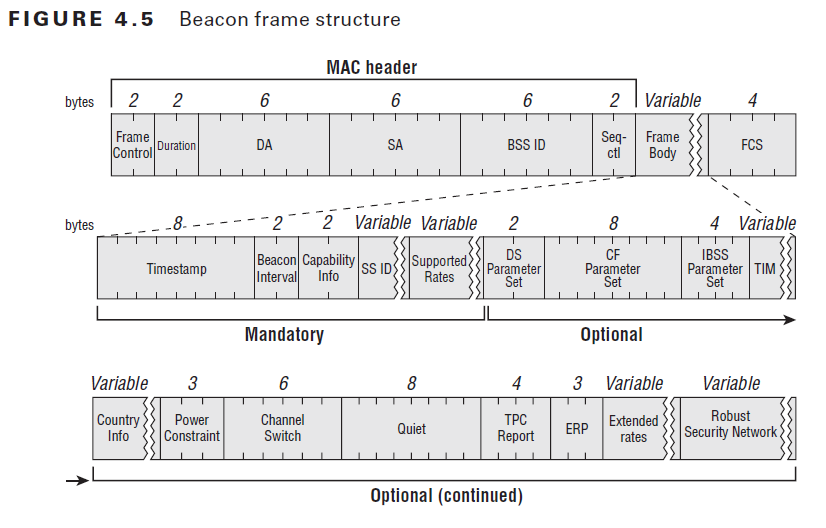
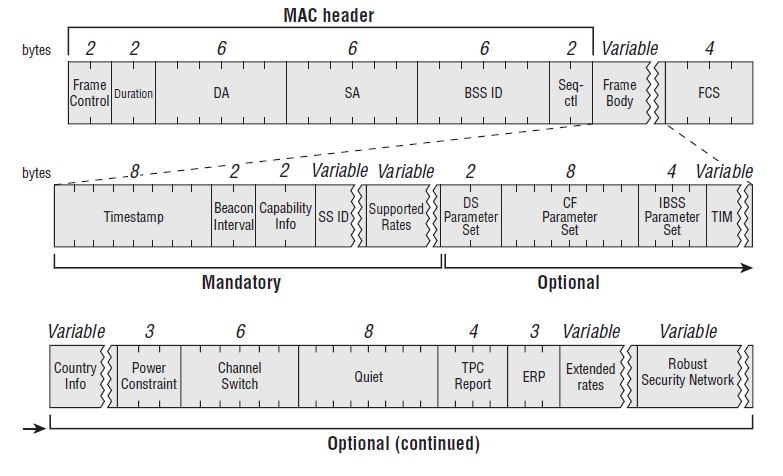
minor report edits

Changed region(s): [[0.0, 0.0, 0.9808, 0.6471], [0.0307, 0.6765, 0.9808, 0.9706], [0.0307, 0.3529, 0.0613, 0.3824]]

diff --git a/report/background.tex b/report/background.tex
@@ -91,7 +91,7 @@ As the types of signals to be sensed are split into non-cooperative and cooperat
 The simplest method of non-cooperative sensing is energy detection. In this approach, the power spectral density (PSD) of the received signal is taken\cite{sensing_energy}. The PSD represents the measure of a signal’s intensity in the frequency domain computed with the fast fourier transform of a signal. This is then bandpass filtered to contain only the frequency bands being watched. These frequency bands are integrated, to determine how much energy is present in the band. If this passes a certain threshold, the frequency band is marked as occupied. A MATLAB example of energy detection is provided in Appendix \ref{app:energy_detection}, and a flow diagram of energy detection is shown in Figure \ref{fig:energy_detection}.
 \begin{figure}[ht]
 \centering
-\includegraphics[width=0.70\textwidth]{img/energy_detection.png}
+\includegraphics[width=0.90\textwidth]{img/energy_detection.png}
 \caption{Flow diagram of energy detection. The input signal is bandpass filtered, and then summed. The signal is considered as present if the sum passes a threshold value.}
 \label{fig:energy_detection}
 \end{figure}\par
@@ -105,7 +105,7 @@ Another approach to spectrum sensing is through the use of matched filters. Matc
 \end{align}
 \begin{figure}[ht]
 \centering
-\includegraphics[width=0.70\textwidth]{img/match_filter.png}
+\includegraphics[width=0.90\textwidth]{img/match_filter.png}
 \caption{Flow diagram of matched filter. The input signal is bandpass filtered. The resulting signal is then correlated with the expected signal. If the output of this correlation passes a threshold, the signal is considered as present.}
 \label{figure:matched_filter}
 \end{figure}\par
@@ -239,7 +239,7 @@ The equations used in a Kalman filter are shown below:
     \matr{P} &= \matr{(I-KH)P}
 \end{align} \par
 
-The first set of equations predicts the current state given the last state. Equation (\ref{eq:state_predict}) updates the state based on the current state and current input. The vector $\vec{x}$ is the state of the Kalman filter. This has the values being filtered. $\vec{u}$ is the value of the controls being used to alter the state. In our application, this is 0. $\matr{F}$ is the state transition matrix, which determines how the different states interact with each other.  $\matr{H}$ is the control matrix. Equation (\ref{eq_cov_predict}) updates the covariance matrix of the state, which is $\matr{P}$. $\matr{Q}$ is the covariance of the noise of the environment. \par
+The first set of equations predicts the current state given the last state. Equation (\ref{eq:state_predict}) updates the state based on the current state and current input. The vector $\vec{x}$ is the state of the Kalman filter. This has the values being filtered. $\vec{u}$ is the value of the controls being used to alter the state. In our application, this is 0. $\matr{F}$ is the state transition matrix, which determines how the different states interact with each other.  $\matr{H}$ is the control matrix. Equation (\ref{eq:cov_predict}) updates the covariance matrix of the state, which is $\matr{P}$. $\matr{Q}$ is the covariance of the noise of the environment. \par
 
 The second set of equations updates the Kalman filter to take into account the most recent measurement. $\vec{y}$, sometimes called the innovation, is the difference between the measurement received and the last state prediction. 
 $\matr{S}$ is an intermediate matrix, used so that the calculation of the Kalman gain $\matr{K}$ is not too complicated in one step. The calculated Kalman gains are then used to update the state and state covariance to take into account the updated model and input. \par
@@ -250,7 +250,7 @@ There are multiple different families of SDRs, two of which are RTL and Universa
 SDRs can be implemented on field programmable gate arrays (FPGA), digital signal processors (DSP), programmed System on Chips (SoC), general purpose processors (GPP), personal computers (PC), or other reprogrammable application specific integrated circuits (ASICs). The use of these reprogrammable technologies allows for the possibility of constant updates or dynamic radio systems without the need to add additional hardware. The primary goal of designing an SDR is to implement as much of the radio in the digital space, minimizing the use of analog components. The digital portion of an SDR performs the data compression, encoding, modulation, demodulation, decoding, and decompression in software. The only analog components are a digital to analog converter (DAC), an analog to digital converter (ADC), and a RF circuit. The RF circuitry on the transmitter consists of a smoothing filter to reduce the hard edges of the baseband signal that the DAC outputs as well as circuitry to upconvert the baseband signal. The RF circuitry on the receiver side consists of a downconverter to move the signal to the baseband as well as filters to remove noise from the signal. The DAC and ADC serve as the bridge between the analog and digital realms enabling the software defined signal to be converted to an analog one to transmit and receive, then converted back to digital on the receiving end shown below in Figure \ref{fig:sdr_flow_diagram}.
 \begin{figure}[ht]
 \centering
-\includegraphics[width=0.70\textwidth]{img/sdr_diagram.png}
+\includegraphics[width=\textwidth]{img/sdr_diagram.png}
 \caption{Flow diagram of an SDR with the distinction between the digital and analog components.}
 \label{fig:sdr_flow_diagram}
 \end{figure}\par
@@ -259,7 +259,7 @@ A software defined radio, such as an adaptive radio \cite{cog_radios}, has the c
 \begin{figure}[ht]
 \centering
 \includegraphics[width=0.70\textwidth]{img/sdr_diagram2.png}
-\caption{The relationship between SDR, adaptive radio, cognitive radio, and intelligent radio.}
+\caption{The relationship between SDR, adaptive radio, cognitive radio, and intelligent radio \cite{int_radio}.}
 \label{fig:sdr_relationship_diagram}
 \end{figure}\par
 There are three major groups of algorithms that intelligent radios are based on: machine learning, genetic algorithms, and fuzzy control \cite{amraoui2012intelligent}. Neural networks are a type of machine learning that use large group of nodes to solve problems similarly to how the human brain operates. When new information is acquired, it is incorporated into the algorithm to improve the output \cite{amini2011universal}. This technique is used to estimate the performances of WiFi networks and respond to changes in the network. Fuzzy logic is usually combined with neural networks that adapt to the environment during the operation of an intelligent radio. A fuzzy logic control system is used to find the solution to a problem given imperfect information \cite{amraoui2012intelligent}. There are three main components in a fuzzy logic controller: fuzzifier, fuzzy logic processor, and defuzzifier. The fuzzifier maps the inputs into fuzzy sets, the fuzzy logic processor determines a fuzzy output based on a set of rules, and the defuzzifier transforms the fuzzy output into a crisp output. One of the main advantages to fuzzy logic is its low complexity, which is extremely useful in real-time radio applications. Another example of an algorithm used in intelligent SDRs is the wireless system genetic algorithm (WSGA). This algorithm is a multi-objective genetic algorithm (MOGA) designed for the control of a radio by modeling the physical radio system as a biological organism and optimizing its performance through genetic and evolutionary processes \cite{rondeau2004cognitive}. Each aspect of the radio, including payload size, coding, encryption, and spreading, can be considered genes that can be modified through these processes. These genes are combined into a chromosome that is used to evolve the system. The algorithm analyzes the effectiveness of the chromosome through weighted fitness functions defined by performance evaluations of the current radio channel \cite{rondeau2004cognitive}.\par

diff --git a/report/methods.tex b/report/methods.tex
@@ -55,7 +55,7 @@ Once a beacon transmission is detected using the above techniques, the L-SIG fie
 By the rate information, the received packet's 802.11 frame can be further analyzed to find the broadcast SSID of our received transmission frame. The SSID field which starts at the $36^{th}$ byte of the beacon frame header is the only desired information here as it allows the identification of separate access points.
 \begin{figure}[ht!]
 	\centering
-	\includegraphics[width=0.70\textwidth]{img/beacon_frame}
+	\includegraphics[width=0.9\textwidth]{img/beacon_frame}
 	\caption{MAC level structure of beacon frames\cite{beacon_frame}}
 	\label{fig:beacon_frame}
 \end{figure}\par
@@ -190,4 +190,4 @@ The next test was to move the SDR with a stationary transmitter within the line 
 These tests verified that the system is working correctly. Each test increases in complexity and exercised the system to observe its performance in different environments. The first test is simple to verify that the components are working correctly. The second test is done to measure the signal strength at different distances and angles relative to the antenna to be able to evaluate the range at which a transmitter can be detected. The final tests was to localize the signals and distinguish between multiple transmitters.
 
 \section{Chapter Summary}
-In this chapter, details about the methods used in this project are discussed in detail. Energy detection and matched filtering are used for identifying if there is WiFi within the area. Once confirmed that there is WiFi within the vicinity, localization occurs using the RSS method which is based upon the drone's GPS location. As a trade-off for the small size and cost-effectiveness of the GPS chosen, a Kalman filter was designed to increase accuracy of the measurements to project a better localization map of the area. Another major consideration was determined as the communicating control messages to the drone and the information messages to the ground as these two must not interfere with the WiFi sensing. In addition, the different test protocols for the two different target regions were detailed to determine the feasibility of the modular platform.
+In this chapter, details about the methods used in this project are discussed in detail. Energy detection and matched filtering are used for identifying if there is WiFi within the area. Once confirmed that there is a WiFi transmission within the vicinity, localization occurs using the RSS method which is based upon the drone's GPS location. As a trade-off for the small size and cost-effectiveness of the GPS chosen, a Kalman filter was designed to increase accuracy of the measurements to project a better localization map of the area. Another major consideration was determined as the communicating control messages to the drone and the information messages to the ground as these two must not interfere with the WiFi sensing. In addition, the different test protocols for the two different target regions were detailed to determine the feasibility of the modular platform.

diff --git a/report/appendix.tex b/report/appendix.tex
@@ -177,8 +177,6 @@
 \end{tabular}
 \end{table}\par
 \pagebreak
-\chapter{MASDR Documentation}\label{app:masdr_docs}
-\hl{Still to be added}
 \chapter{C++ Code}
 \section{iq\_to\_file Source Code}\label{app:iq_to_file}
 \lstinputlisting[language=C++]{../iq_to_file/iq_to_file.cpp}
